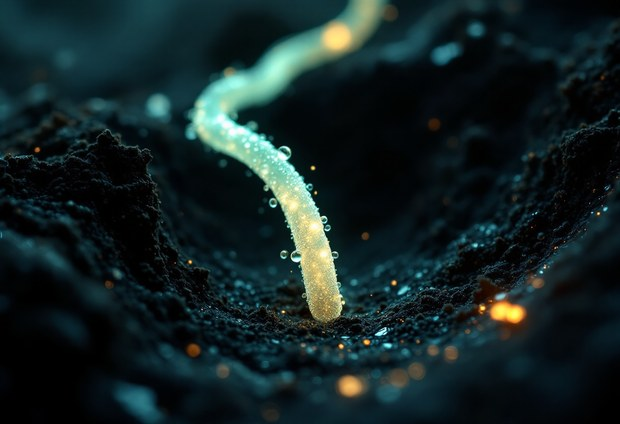
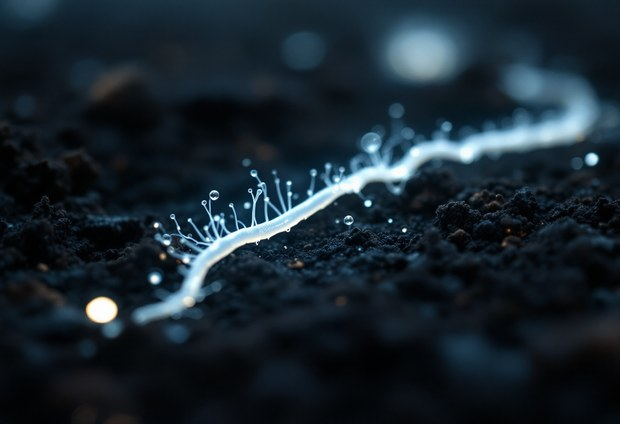
Finalize new grow-card art: Turgor Thrust (x4) + gallery of all 9 picks
- Turgor Thrust -> its long-reach white option 4 (turgor-thrust-x4.jpg). All 9
  new grow cards now have their chosen art applied in assets/cards/.
- Add scripts/gen_newcards_gallery.mjs — a read-only gallery of the final set
  (each card on its real face with the applied art + which option won).
- Rebuilt the game (dist synced).

Claude-Session: https://claude.ai/code/session_01YCR2gkiAtGPrFY5YjFaZn2

diff --git a/dist/artifact.html b/dist/artifact.html
@@ -1272,8 +1272,8 @@
 <div id="ui"></div>
 <script>
 'use strict';
-window.__ASSET_VER = "1wfs8ek";
-globalThis.__BUILD__ = "local 07-19 15:50";
+window.__ASSET_VER = "d72sw5";
+globalThis.__BUILD__ = "local 07-19 15:59";
 
 // ===================== src/config.js =====================
 const __m_config = (function () {

diff --git a/dist/index.html b/dist/index.html
@@ -1278,8 +1278,8 @@
 <div id="ui"></div>
 <script>
 'use strict';
-window.__ASSET_VER = "1wfs8ek";
-globalThis.__BUILD__ = "local 07-19 15:50";
+window.__ASSET_VER = "d72sw5";
+globalThis.__BUILD__ = "local 07-19 15:59";
 
 // ===================== src/config.js =====================
 const __m_config = (function () {
